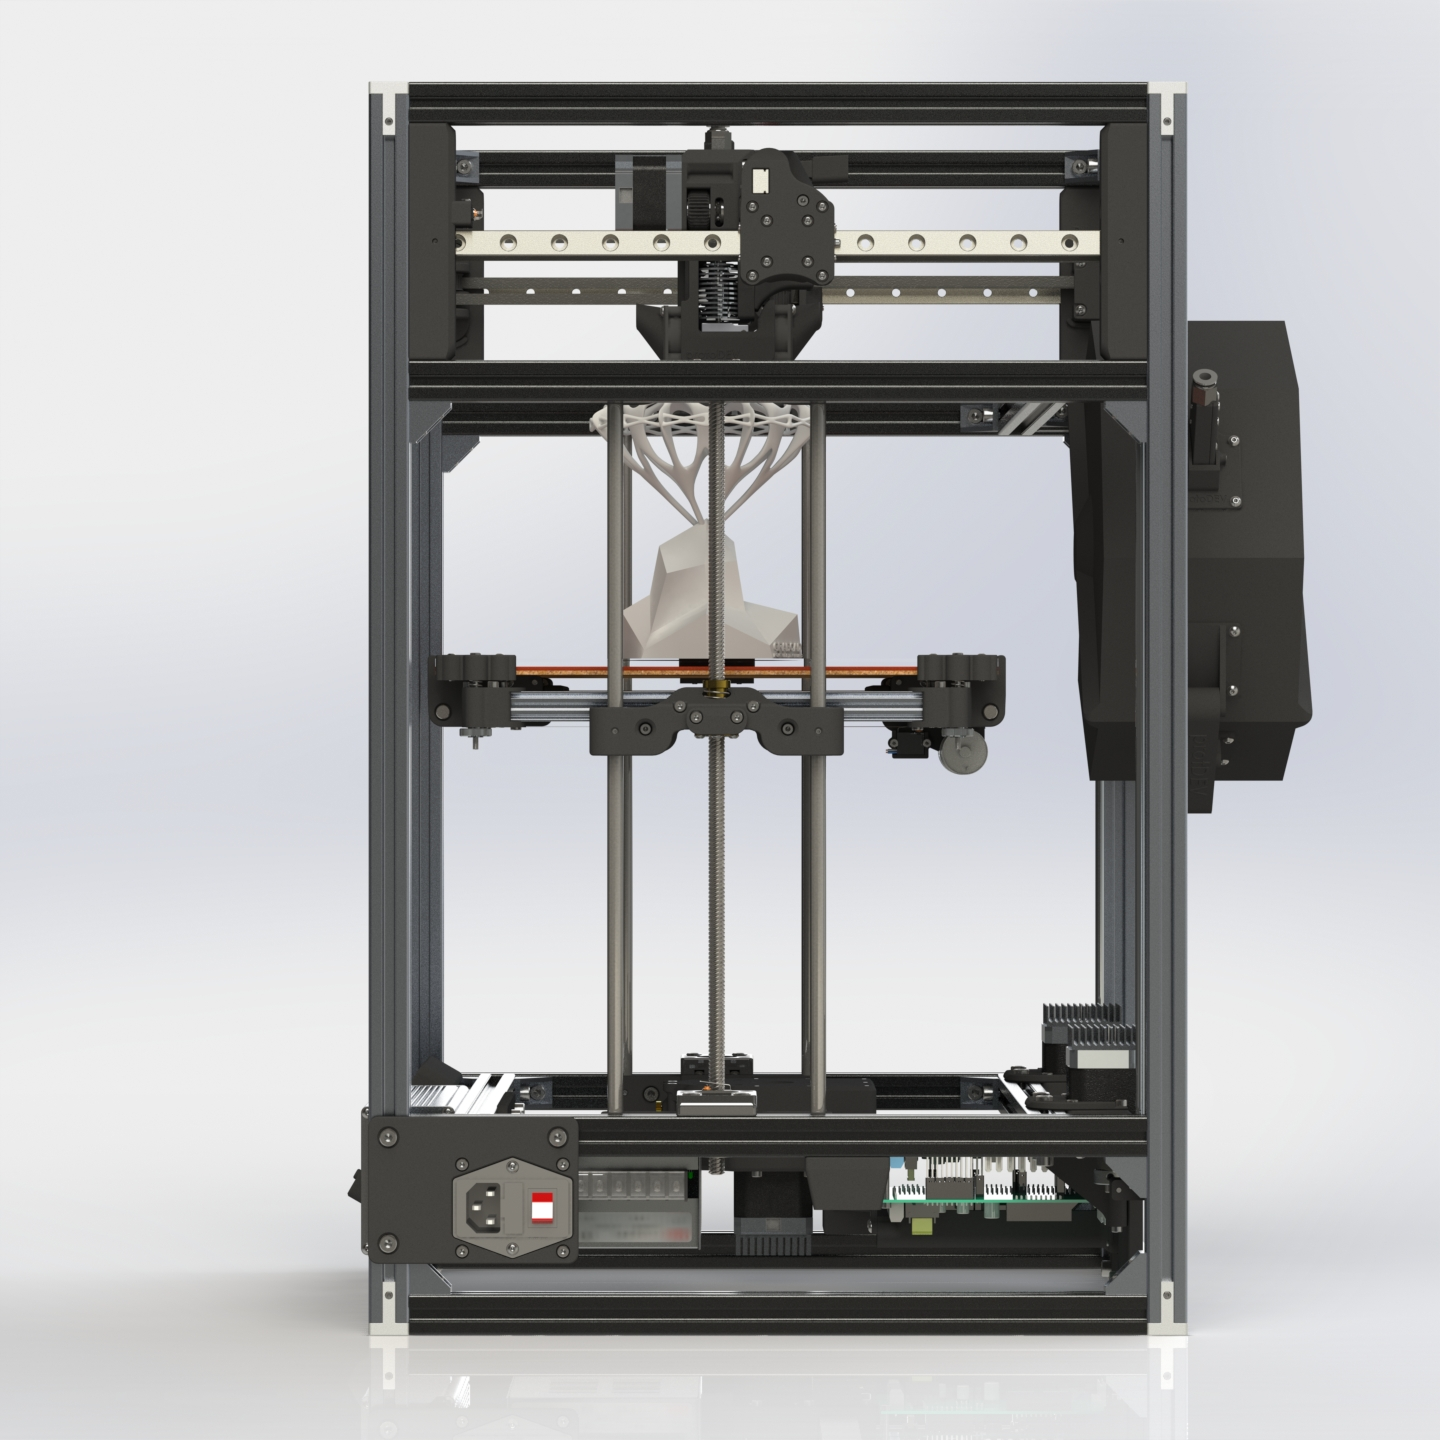
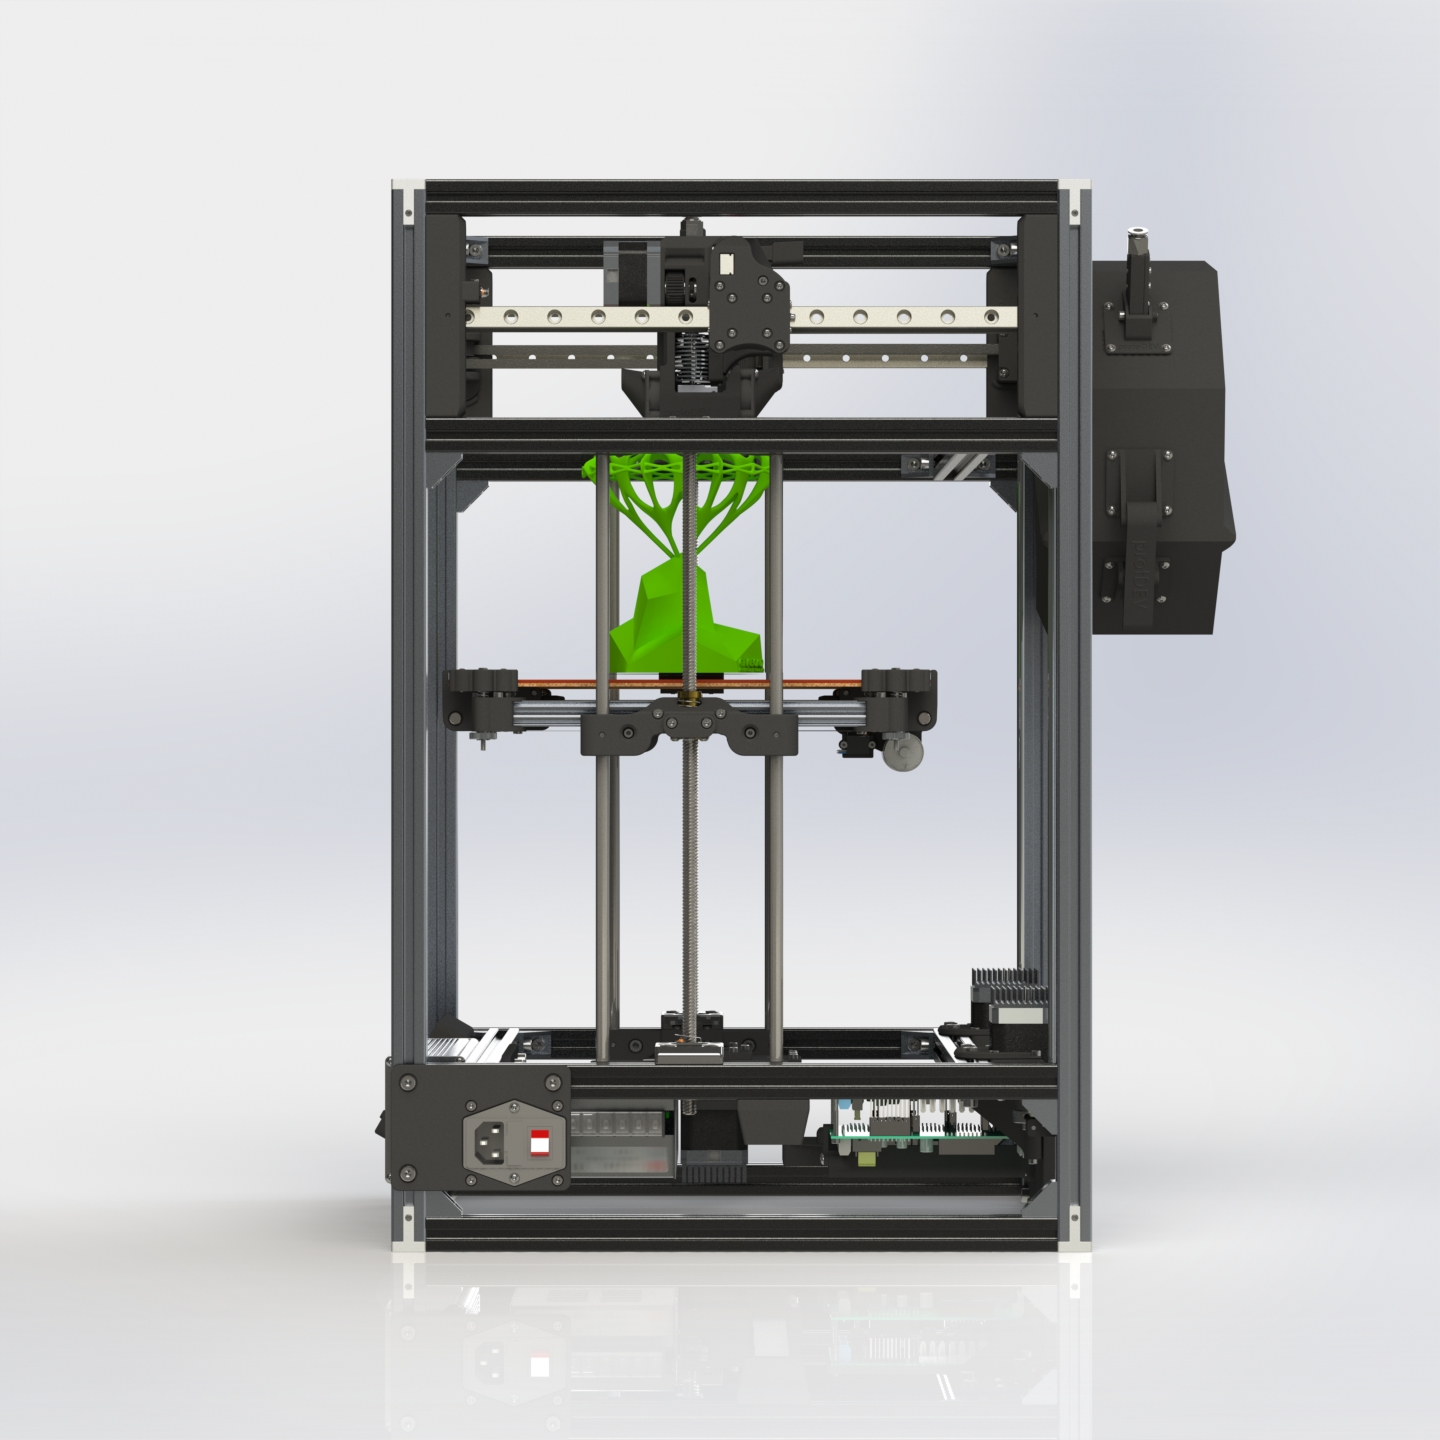
update
-latest renders
- latest Slic3rPE settings bundle bor protoDEV
- readme cleanup

diff --git a/README.md b/README.md
@@ -12,16 +12,21 @@
  This is not an another incomplete "work in progress" project.
  It's a work in progress that has improvment in mind.
  
- I'm into 3dprinting in years, and active building 3d printers for most of that time.
- Learned a lot thanks to the community... and specially from community based systems like Prusa's.
- Internet is a place were some got news, youtube, porn...
- and some having nerd stuff... software, mechanical, electrical and electronical articles, blogs, vlogs, faqs etc.
- If you are a tech Nerd just like me, you can find tons of very interesting educational articles that can build up your knowlage until...
- for me everything ended up here on GitHub.
- Why?
- because was living the 3dprinter hype and tested all the bullshit and non-bulshit projects on te planet.
+ What is working here? 
+
+ Hmmm... Everything? 
+
+ This is not an another incomplete "work in progress" project. It's a work in progress project that has improvement in mind. 
+
+ I'm into 3d printing for few years, and active building 3d printers for most of that time. Learned a lot thanks to the community... 
+ and specially from community based systems like Prusa's. Internet is a place were some got news, youtube, porn... 
+ and some having nerd stuff... software, mechanical, electrical and electronics articles, blogs, vlogs, faqs etc. 
+ If you are a tech Nerd just like me, you can find tons of very interesting educational articles that can build up your knowledge until... 
+ for me everything ended up here on GitHub. 
  
- Now it's time to share some of the knowlage just like all those people all over the world shared with me.
+ Why? because was living the 3d printer hype and tested all the bullshit and non-bulshit projects on te planet. 
+
+ Now it's time to share some of the knowledge just like all those people all over the world shared with me. 
  
  My goal is to gather some people that will/want to build, use and improve the project.
  I've spent over 3 months working on the Cad3D part (SolidWorks) of the project to make parts simple to print and simple for makers to assembly.
@@ -37,6 +42,7 @@
 <b>Features:</b>
 
  * build plate 245 x 245 x 300 mm ( X x Y x Z )
+ * automatic parts removal 
  * 32bit Smoothieware firmware for smooth motion
  * e3d volcano hotend with hartened steel 0.4mm nozzle
  * TMC2208 silent stepper drivers - spread cycle setup with step interpolarisation 1/256 
@@ -62,7 +68,7 @@
  
  * 3rd party controler boards support (actual controler price to high?)
  
- * automatic parts removal system for batch 3printing
+ * automatic parts removal system test and firmware development for batch 3printing
  
  * <font color="green"><s>add latest 24V-hiwin-tmc2208 project files</s> <b>*done</b></font> 
  
